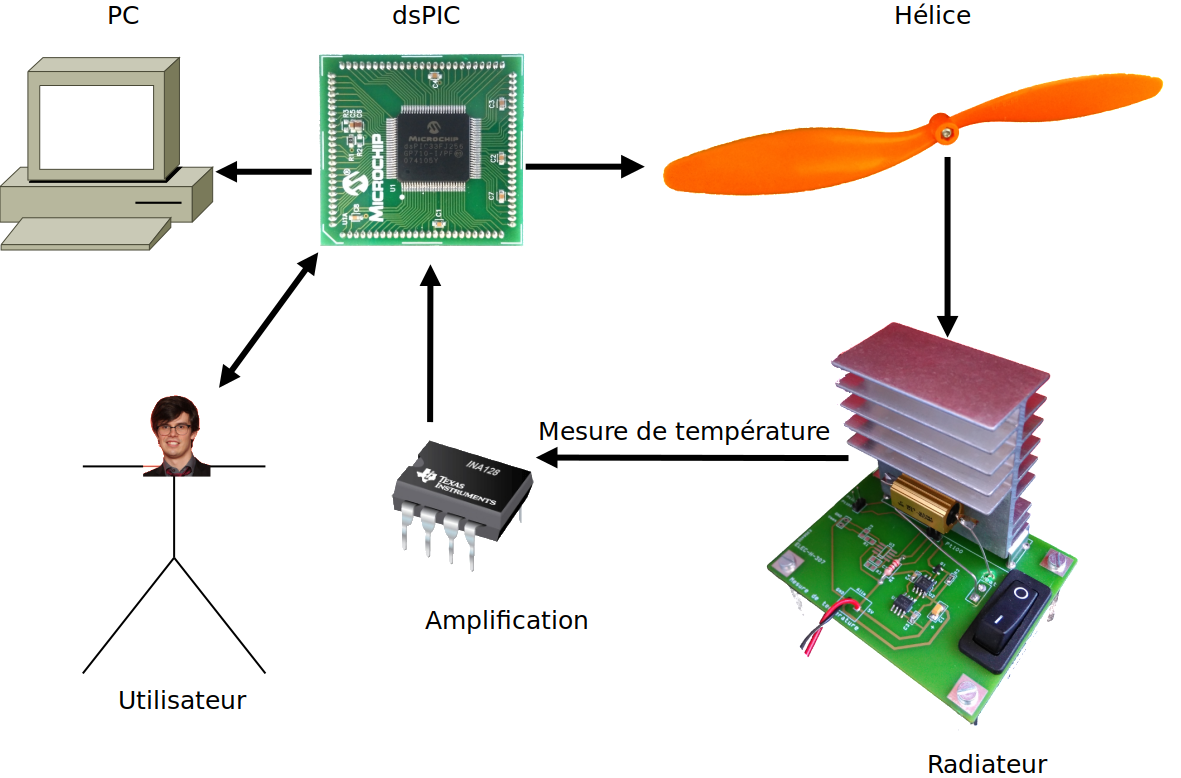
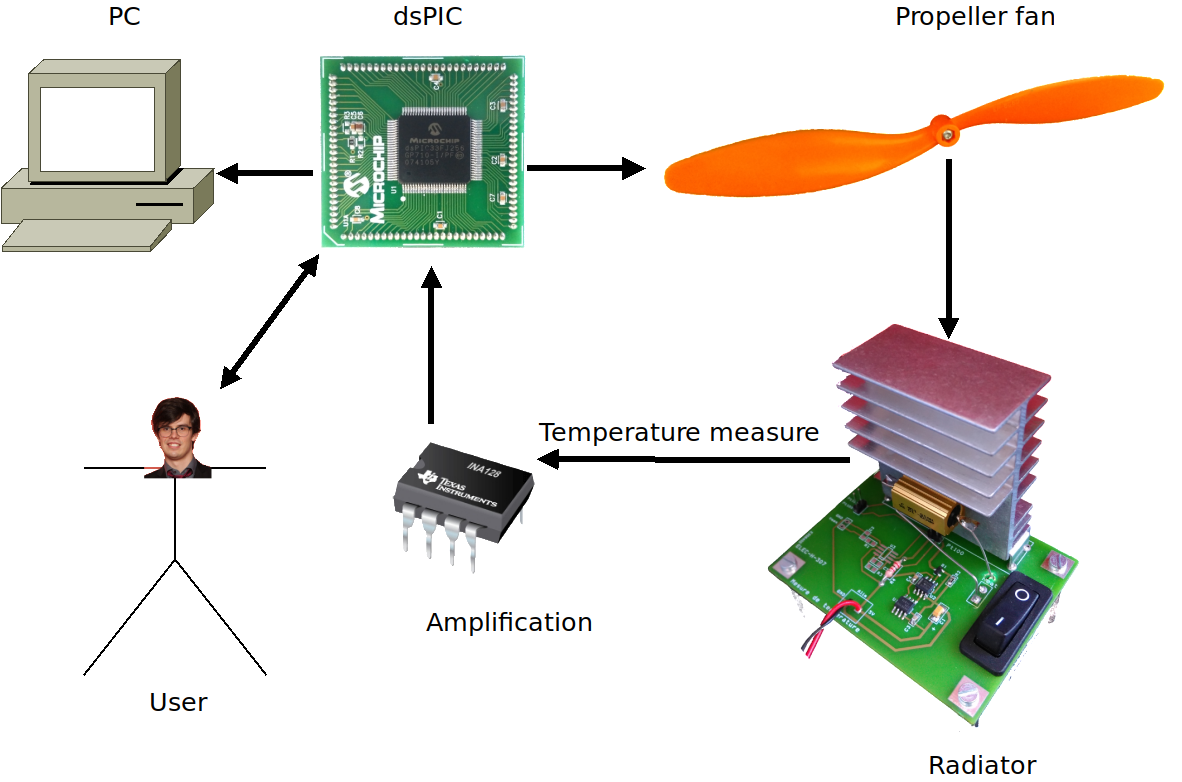
[Project] Relecture et traduction de l'image.

diff --git a/projet/cahier des charges/elech310_projet_cahier-des-charges_en.tex b/projet/cahier des charges/elech310_projet_cahier-des-charges_en.tex
@@ -2,7 +2,7 @@
 \usepackage[utf8]{inputenc}
 \usepackage[T1]{fontenc}
 \usepackage{amsthm} %numéroter les questions
-\usepackage[frenchb]{babel}
+\usepackage[english]{babel}
 \usepackage{datetime}
 \usepackage{xspace} % typographie IN
 \usepackage{hyperref}% hyperliens
@@ -28,7 +28,7 @@
 
 \usepackage{framed}
 
-\newdateformat{mydate}{v1.0.1}%hack pour remplacer \THEYEAR
+\newdateformat{mydate}{v1.0.2}%hack pour remplacer \THEYEAR
 
 
 \newboolean{corrige}
@@ -198,7 +198,7 @@ Thanks to the airflow generated by a variable speed fan, the processor temperatu
 \end{figure}
 \end{center}
 
-In this project, you will dispose of~:
+In this project, you will dispose of:
 \begin{itemize}
 	\item An Explorer 16 board with a dsPIC33.
 	\item A propeller driven by;
@@ -251,24 +251,24 @@ The complete acquisition circuit is describe later.
 \end{center}
 
 The user must be able to operate the system by interacting with the keyboard and the LCD screen present on the expansion board.
-Here are the operationnal commands~:
+Here are the operationnal commands:
 \begin{itemize}
-	\item Touch 'A' + two digits~: changes the temperature command.
-	Example~: «~A23~» sets the desired temperature to $23\celsius$.
-	\item Touch 'B' + two digits~: changes the sampling period.
-	Example~: «~B0250~» sets the periode to $250\ ms$.
-	It should accept periods in a $1\ ms$ to $1\ s$ range.
-	\item Touch 'F': acts as the enter key. 
-	\item Touch 'C': deletes the last character entered.
-	\item Touch 'D': cancel the command input.
+	\item Key `A' + two digits: changes the temperature command.
+	Example: «~A23~» sets the desired temperature to $23\celsius$.
+	\item Key `B' + two digits: changes the sampling period.
+	Example: «~B0250~» sets the periode to $250ms$.
+	It should accept periods in a $1ms$ to $1s$ range.
+	\item Key `F': acts as the enter key. 
+	\item Key `C': deletes the last character entered.
+	\item Key `D': cancel the command input.
 \end{itemize}
 
-When no command is entered the screen should print the current temperature in the following format : «~23.4C~».
+When no command is entered the screen should print the current temperature in the following format : ``23.4C".
 This screen should be refresh every seconds.
 
 Finally, the system will have to send temperature data to the PC using the serial communication.
 You will use the UART peripheral of the dsPIC.
-The temperature should be send every seconds in the following format~: «~25.3\textbackslash n~».
+The temperature should be send every seconds in the following format: ``25.3\textbackslash n".
 
 The python script \textit{graph.py} on the computer makes possible to visualise the data.
 \begin{figure}[H]
@@ -301,11 +301,11 @@ For each of these features, isolate the peripherals to use and make a schematic 
 Once done, implement the project bloc by bloc.
 Start with a simple feature such as the command of the fan speed, then complete the rest of the project piece by piece.
 
-Don't code anything too specific to a feature~: remember that the different parts of your algorithm will have to interact with each others.
+Don't code anything too specific to a feature: remember that the different parts of your algorithm will have to interact with each others.
 It might be beneficial to start by implementing the interfaces with the different blocks.
 For instance, by coding a function that modify the fan speed.
 
-The purpose behind this project is to program a system while understanding well what you are doing~: no need to go too fast~!
+The purpose behind this project is to program a system while understanding well what you are doing: no need to go too fast!
 
 
 
@@ -324,7 +324,7 @@ As mentioned above, the temperature measurement is carried out by means of a pla
 The electronic diagram is given in the figure~\ref{fig:mes-temp}.
 
 \begin{figure}[H]
-\shorthandoff{:!;}
+% \shorthandoff{:!;}
 \center
 	\subfloat[\label{fig:mes-temp-ampop}]{%
 		\parbox[b]{.45\linewidth}{% Embed the content of the subfloat into a parbox to make it wider. Otherwise, the width of the subfloat is set by the width of the table, and so is the caption.
@@ -338,11 +338,12 @@ The electronic diagram is given in the figure~\ref{fig:mes-temp}.
 				($(npn.collector)+(0,2.5)$) node (vdd) {5V}
 
 				(npn.collector) to [short, -o] +(1,0) node (B) {}
-				(A) to[open, v^=$V_{mes}$] (B)
+				(B) to[open, v=$V_{mes}$] (A)
 
 				(npn.emitter) to[short] +(0,-0.5) node(C) {}
 				(C) to[R=$R_1$] +(0,-2) node [ground] {}
-				($(C)+(0.01,0)$) -| (opamp.+)% For some reason, putting "(C) -| (opamp.+)" leaves a horizontal gap between C and the wire.
+				($(C)+(0.01,0)$) -| ($(opamp.-)-(0.5,0)$)% For some reason, putting "(C) -| (opamp.+)" leaves a horizontal gap between C and the wire.
+				($(opamp.-)-(0.5,0)$) to[short] (opamp.-)
 				;
 			\end{circuitikz}
 		}
@@ -357,23 +358,23 @@ The electronic diagram is given in the figure~\ref{fig:mes-temp}.
 				(0,0.5) node (vdd) {5V}
 				(0,0) to [short, -o] (1,0) node (A) {}
 				(0,-2) to [short, -o] (1,-2) node (B) {}
-				(A) to[open, v^=$V_{mes}$] (B)
+				(B) to[open, v=$V_{mes}$] (A)
 				;
 			\end{circuitikz}
 		}
 	}
 \caption{Temperature measurement with a Pt100 resistor.}
 \label{fig:mes-temp}
-\shorthandon{:!;}
+% \shorthandon{:!;}
 \end{figure}
 
-The combination ampli-op + transistor  can be seen as a controllable current source (figure~\ref{fig:mes-temp-current-source})~: by maintaining the tension on $R_1$ with the virtual zero, we maintain simultaneously the current flowing through the resistor.
+The association ampli-op + transistor  can be seen as a controllable current source (figure~\ref{fig:mes-temp-current-source}): by maintaining the tension on $R_1$ with the virtual zero, we maintain simultaneously the current flowing through the resistor.
 Since the same current flows through the Pt100, its tension becomes linearly dependent to the temperature.
 
-This measure has two flaws~: not only it is not referenced to the mass, but it is also of low amplitude.
+This measure has two flaws: not only it is not referenced to the mass, but it is also of low amplitude.
 You will therefore, use a a differential amplifier to amplify the tension and to reduce the common mode tension of around $5~V$.
 
-By using an ampli-op INA128 (datasheets are in the appendix), you will have to mount a circuit on a protoboard to acquire the tension and to adapt it to the input voltage of the dsPIC ADC ($0~V$ -- $3.3~V$).
+By using an ampli-op INA128, you will have to mount a circuit on a protoboard to acquire the tension and to adapt it to the input voltage of the dsPIC ADC ($0~V$ -- $3.3~V$).
 
 
 
@@ -394,7 +395,7 @@ Its schematics is illustrated on figure~\ref{fig:alim-moteur}.
 % \missingfigure[figwidth=\textwidth]{Alimentation moteur}
 \begin{figure}[H]
 \center
-\shorthandoff{:!;}
+% \shorthandoff{:!;}
 \begin{circuitikz}
 	\draw
 	(1,0) node [nmos] (nmos1) {}%anchors are drain, source and gate.
@@ -415,20 +416,20 @@ Its schematics is illustrated on figure~\ref{fig:alim-moteur}.
 	(pmos2.drain) to [short] +(3,0) to [twoport,t={Moteur}, bipoles/twoport/height=1.5] +(0,-4) |- (pmos1.drain)
 	;
 \end{circuitikz}
-\shorthandon{:!;}
+% \shorthandon{:!;}
 \caption{Power supply of the motor.}
 \label{fig:alim-moteur}
 \end{figure}
 
-Each branch of the converter can be seen as a MOS inverter~: when the command is in high state, the bottom transistor is short-circuited while the top transistor is an open circuit.
+Each branch of the converter can be seen as a MOS inverter: when the command is in high state, the bottom transistor is short-circuited while the top transistor is an open circuit.
 The difference with classical logic circuit is that the transistors are able to provide higher currents.
 
 The advantage of this system compared with a classical amplification is that it as a high efficiency.
-As a first approximation, no power is dissipated in the switches, the power supply efficiency is near from 100~\%.
+As a first approximation, no power is dissipated in the switches, the power supply efficiency is near from 100\%.
 An additional input named \textit{INHIB}, not represented on the figure, makes possible to deactivate the power supply.
 
 The command of the power amplifier is made with square waves.
-Several definitions associated with those waves are illustrated on figure~\ref{fig:square-wave}~:
+Several definitions associated with those waves are illustrated on figure~\ref{fig:square-wave}:
 % \missingfigure[figwidth=\textwidth]{Figure onde carée avec temps de montée et de descente.}
 \begin{figure}[H]
 \center
@@ -437,24 +438,24 @@ Several definitions associated with those waves are illustrated on figure~\ref{f
 \label{fig:square-wave}
 \end{figure}
 
-The different characteristic times are as follows~:
+The different characteristic times are as follows:
 \begin{itemize}
-	\item $PW$~: Pulse Width, time in high state.
-	\item $PER$~: signal period.
-	\item $t_r$~: Rising time.
-	\item $t_f$~: Falling time.
+	\item $PW$: Pulse Width, time in high state.
+	\item $PER$: signal period.
+	\item $t_r$: Rising time.
+	\item $t_f$: Falling time.
 \end{itemize}
 
 In most cases, including this one, the rising and falling time are negligible.
 
-An other characteristic is the duty cycle~: it is defined as \[D = \frac{PW}{PER}\]
+An other characteristic is the duty cycle: it is defined as \[D = \frac{PW}{PER}\]
 It is the proportion of time spent in high state during a period.
 
 The PWM command (\textit{Pulse Width Modulation}) consists of sending constant period square wave to the power circuit.
 The mean value of the signal is proportional to the duty cycle.
 
 In this case, the signal is the mean tension applied on the DC motor.
-Let's take for instance the command signal provided by the dsPIC on figure~\ref{fig:pwm}~:
+Let's take for instance the command signal provided by the dsPIC on figure~\ref{fig:pwm}:
 % \missingfigure[figwidth=\textwidth]{PWM}
 \begin{figure}[H]
 \center
@@ -465,7 +466,7 @@ Let's take for instance the command signal provided by the dsPIC on figure~\ref{
 
 This signal is applied on the pin \texttt{IN1} of the motor and pin \texttt{IN2} is connected the ground.
 
-The period is $100 \mu s$ and the duty cycle is $60~\%$.
+The period is $100 \mu s$ and the duty cycle is $60\%$.
 When the command is in high state, V- is at 0~V and the converter imposes a tension of 5~V to the motor.
 When it is not the case, the tension is 0~V.
 The mean tension is then $0.6 \cdot 5V  = 3 V$.
@@ -475,7 +476,7 @@ By playing with the duty cycle, you will be able to modify the propeller speed.
 The duty cycle is then the control variable of your regulator.
 \end{framed}
 
-The dsPIC has a peripheral to generated PWM waves~: you need to define its period then to configure a specific register to enter the duty cycle.
+The dsPIC has a peripheral to generated PWM waves: you need to define its period then to configure a specific register to enter the duty cycle.
 
 
 
